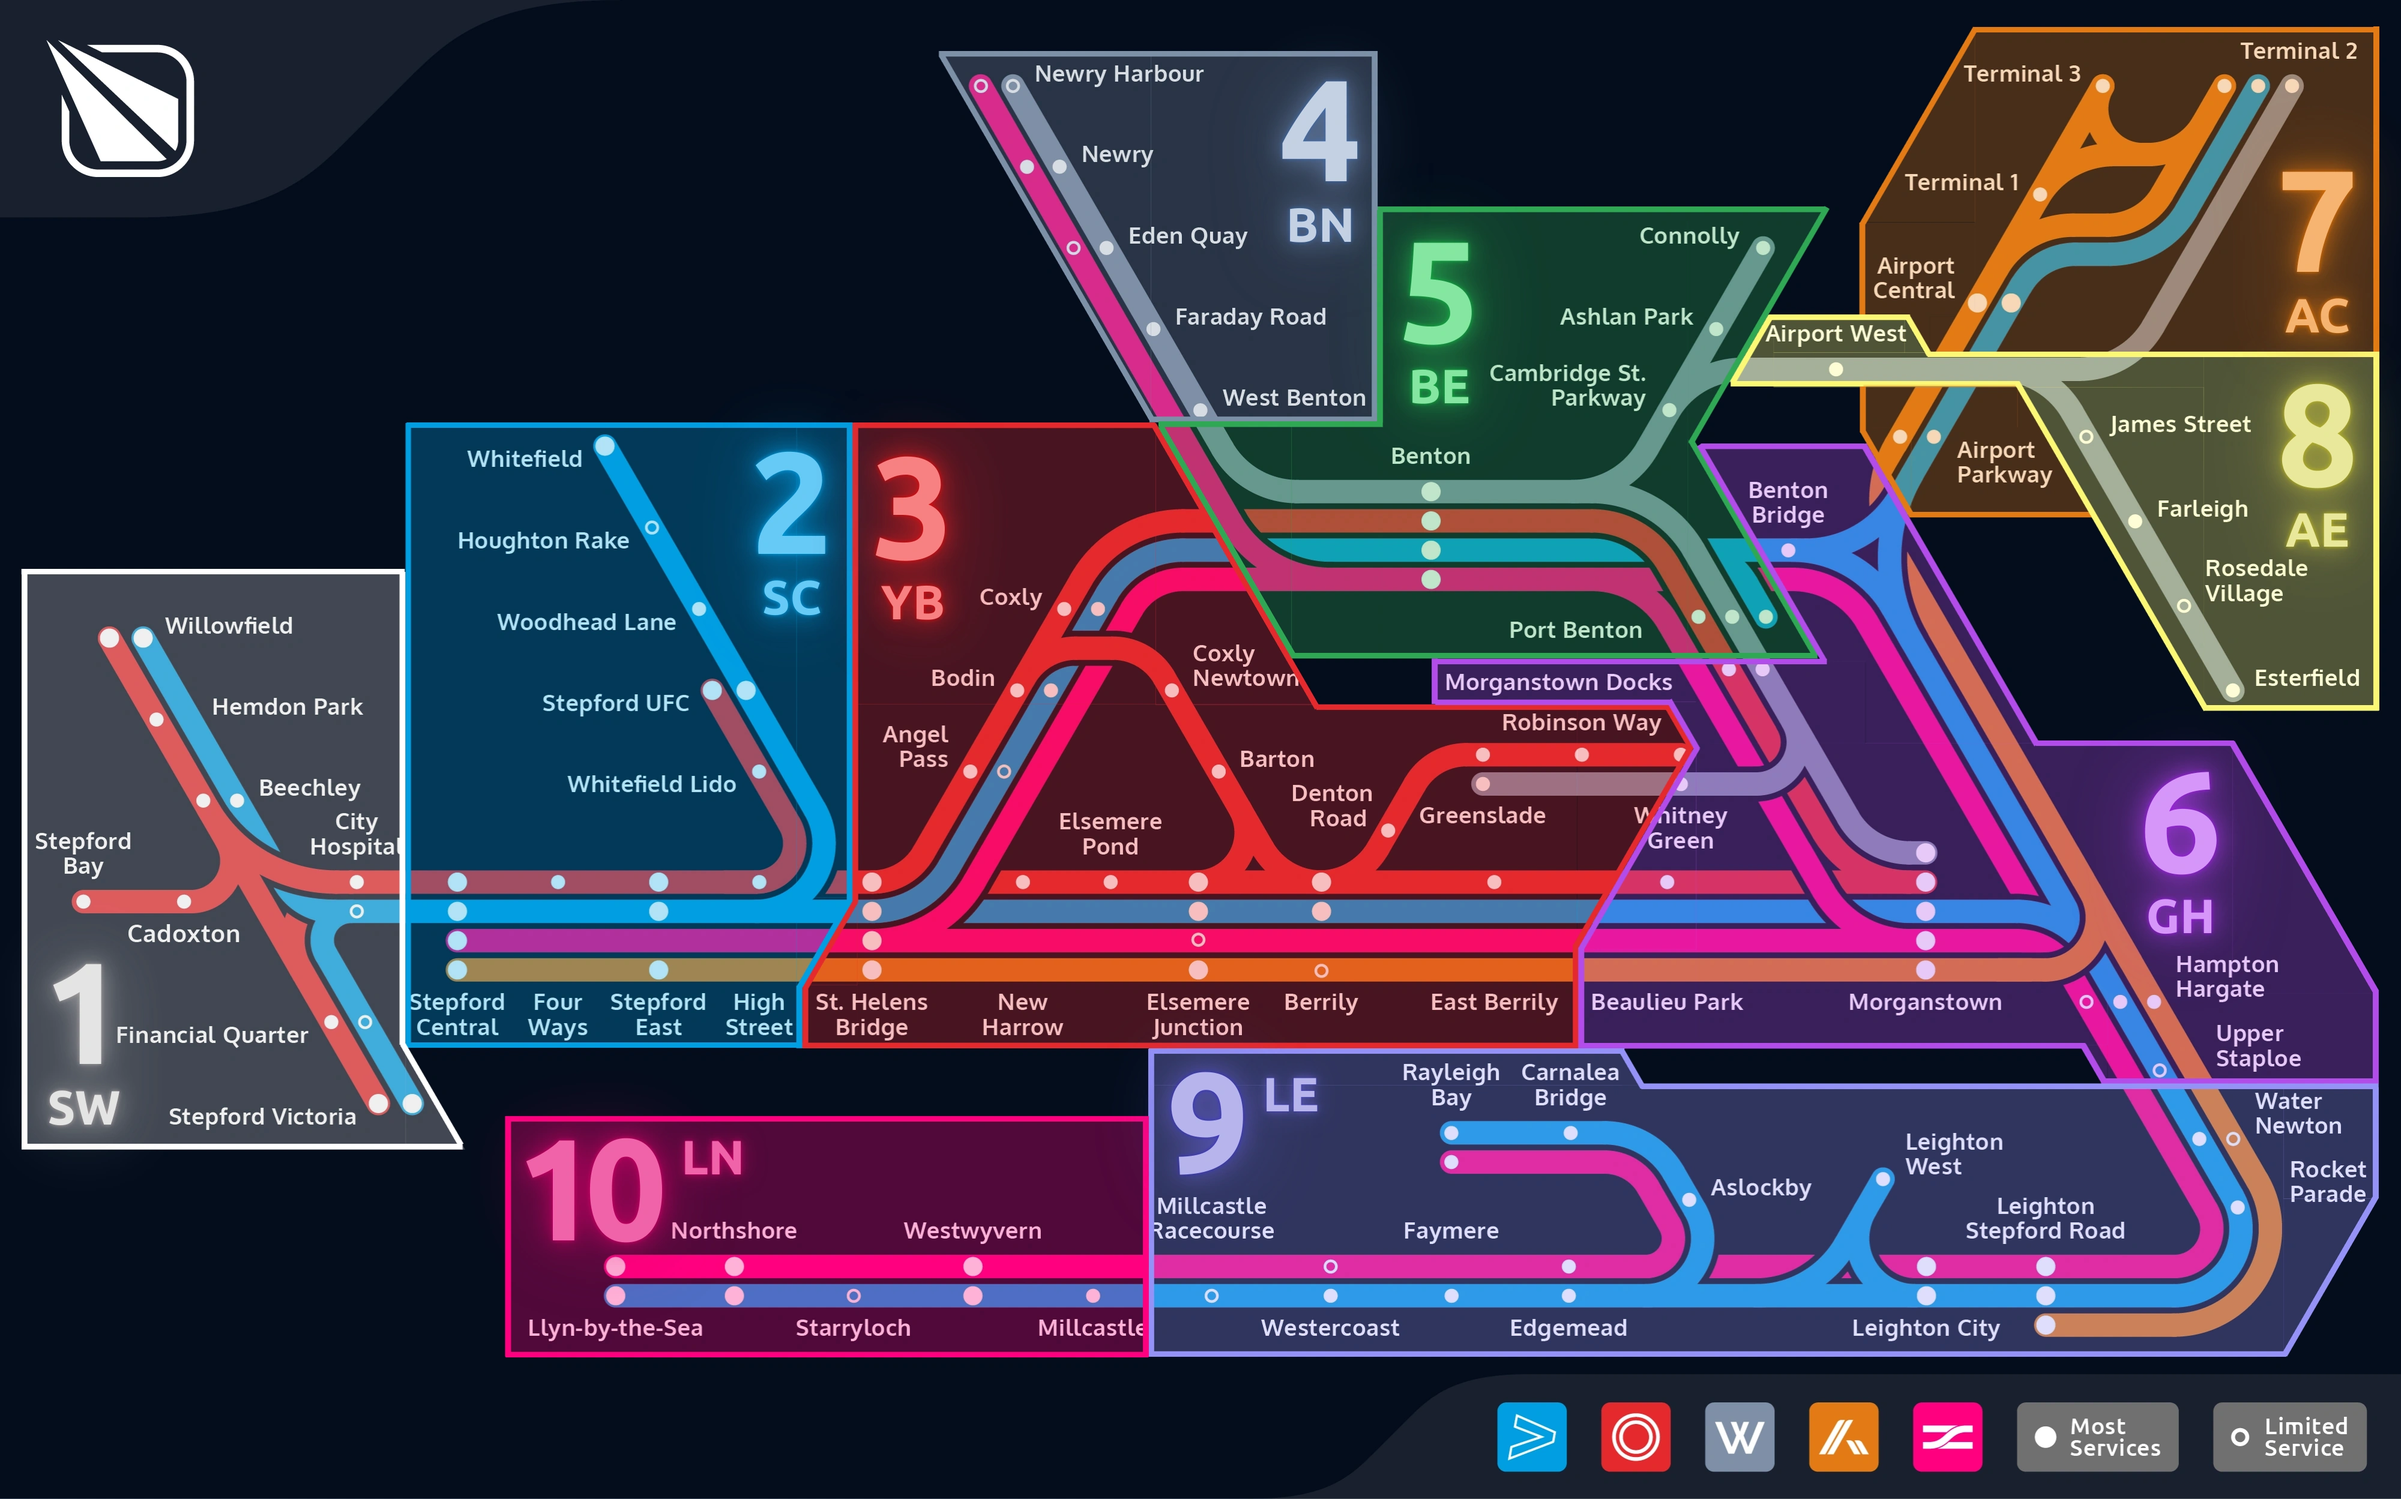
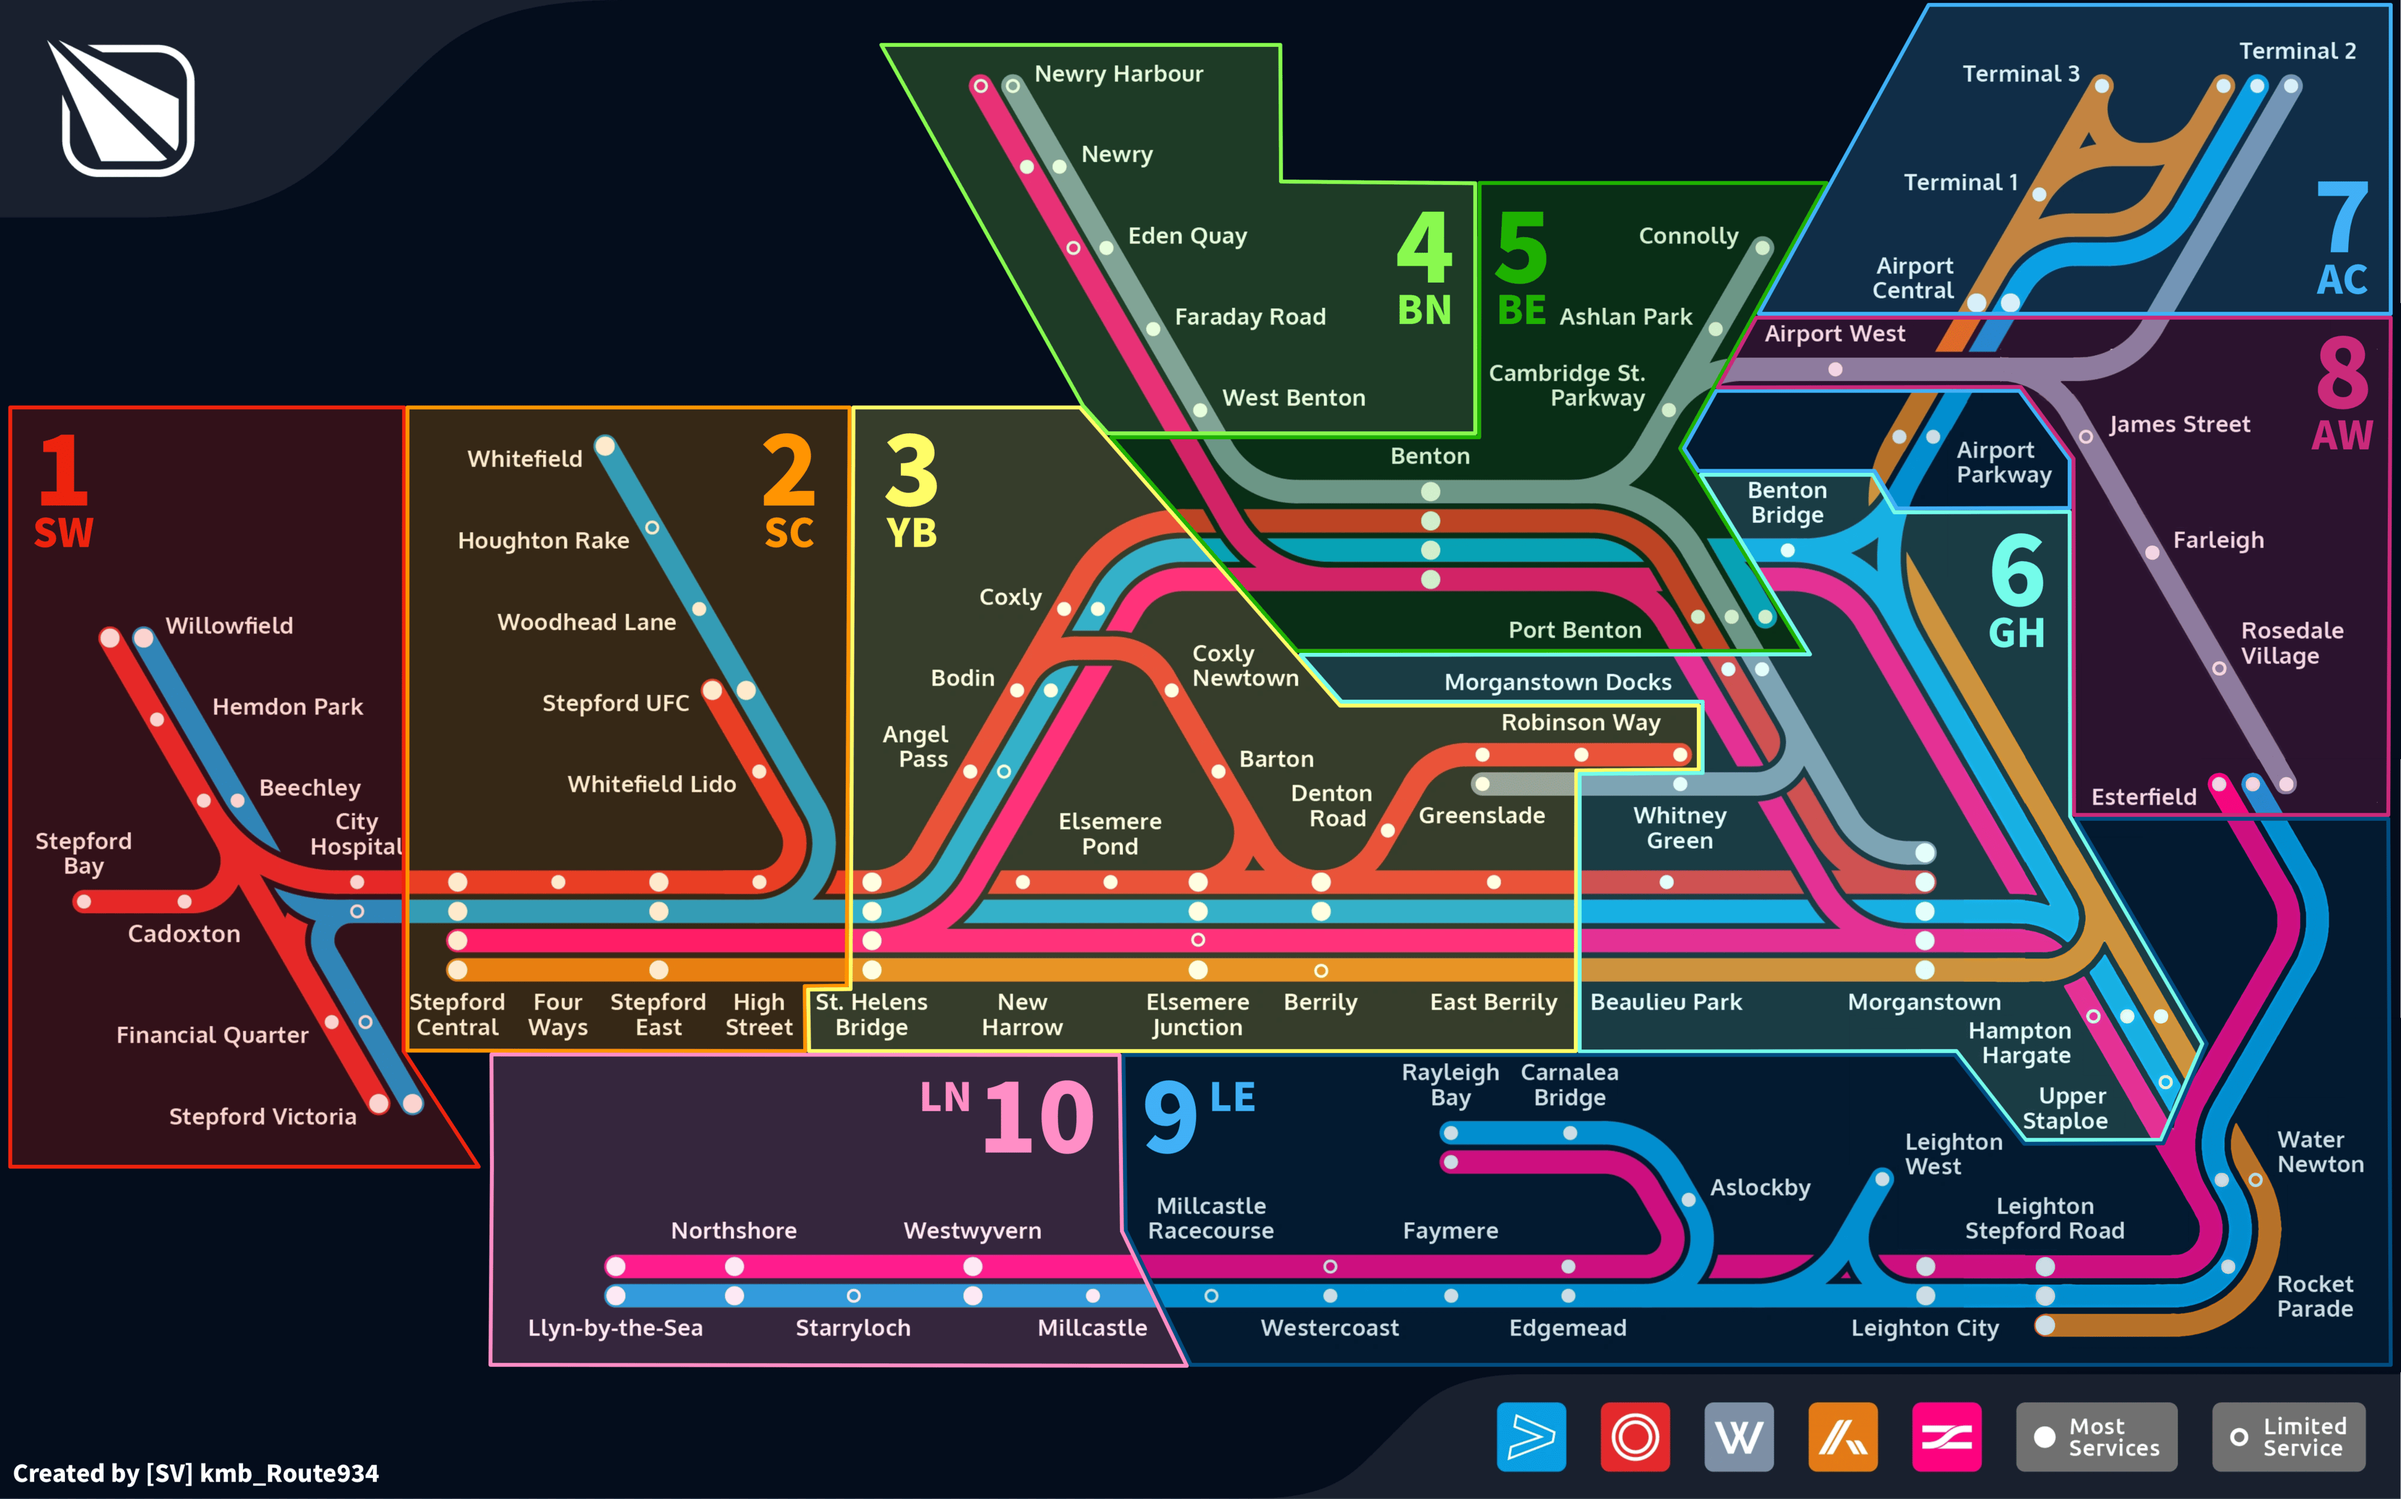
Updated the software for SCR v2.4.0
- Changed csv files to make sure the new Esterfield to Water Newton branch is considered.

diff --git a/managers/image_manager.py b/managers/image_manager.py
@@ -63,7 +63,7 @@ def initialise() -> None:
 def fromStationIdsGetRegionsWithData(colour, alpha, *stations: int) -> list:
     """You input as many station ids as you want, this outputs
     a list composed of (x, y, dx, dy, colour, alpha) for as many 
-    stations you inputed."""
+    stations you inputed. Alpha ∈ [0, 256]"""
     
     output = []
     for id in stations:
@@ -109,3 +109,5 @@ def highlightImage(*regions: tuple[int, int, int, int, str, int], output_name: s
 
 # When module is called, setup essential stuff
 initialise()
+
+highlightImage(*fromStationIdsGetRegionsWithData("#ff0000", 100, *list(range(76))))

diff --git a/README.md b/README.md
@@ -3,7 +3,7 @@ kmb_Route934's flagship game has been an icon for Cdex's SG Academy. With this l
 
 ## Overview
 
-For _v0.3.1-beta_
+For _v0.3.2-beta_
 
 A software to perfectly play kmb_Route934's Stepfordle game, with it's UI you can input your made guesses and the software will instantly tell you what your next guess should be so you can optimise your game. Use it responsibly.
 

diff --git a/CHANGELOG.md b/CHANGELOG.md
@@ -1,5 +1,10 @@
 # Changelog
 
+# 0.3.2-beta
+
+Features:
+> - Added support for Stepford County Railway version 2.4
+
 # 0.3.1-beta
 
 Features:
